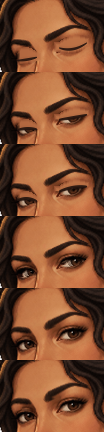
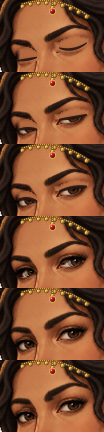
Farah's wedding: gold for a desert court bride
Her crimson coat is worked with small gold flowers on a lattice (only where
there's cloth, clear of the trim), and she wears gold: a circlet of coins along
her hairline, fitted to where her forehead meets her hair, with a garnet drop on
her brow; gold and garnet earrings; and a necklace of coins at her throat with a
larger one at its centre. All lit from the upper left like the painting, and
her blinks and glances remade from the dressed paintings.

Claude-Session: https://claude.ai/code/session_01XvgEay1pJez8ktwbJ7pgPF

diff --git a/tools/portrait_wedding.py b/tools/portrait_wedding.py
@@ -7,7 +7,9 @@ stays), and wedding details are painted into the hair, lit from the upper left l
 paintings.
 
   Edda   honey-ivory wool dress, its stitching left gold; a wreath of white and blush flowers
-  Farah  crimson coat over her cream linen; sprigs of jasmine in her curls
+  Farah  crimson coat over her cream linen, flecked with gold; a circlet of gold coins at
+         her hairline with a red drop on her brow, gold and garnet earrings, a coin
+         necklace at her throat, and jasmine in her curls
   Kaede  white over-robe, red collar; a pin of red and white blossoms by her knot
 
 Writes assets/portraits/<who>_wedding_<expression>.png for the expressions the wedding
@@ -151,6 +153,84 @@ def leaf(out, x0, y0, x1, y1, width, colour):
     out[..., :3] = out[..., :3] * (1 - k) + lit * k
 
 
+GOLD_LIGHT = (252, 226, 150)
+GOLD_MID = (214, 166, 72)
+GOLD_DARK = (120, 80, 28)
+GARNET = (170, 22, 38)
+
+
+def coin(out, cx, cy, r):
+    """A gold coin or bead: a dark rim, lit from the upper left, a glint."""
+    h, w = out.shape[:2]
+    rim, _dx, _dy = disc((h, w), cx, cy, r + 0.7)
+    paint(out, rim, GOLD_DARK)
+    body, dx, dy = disc((h, w), cx, cy, r)
+    lit = 1.0 + 0.45 * np.clip((-dx - dy) / (1.4 * max(r, 1.0)), -1, 1)
+    colour = np.clip(np.array(GOLD_MID, float)[None, None, :] * lit[..., None], 0, 255)
+    k = body[..., None]
+    out[..., :3] = out[..., :3] * (1 - k) + colour * k
+    out[..., 3] = np.maximum(out[..., 3], body * 255)
+    if r >= 1.8:
+        glint, _dx, _dy = disc((h, w), cx - r * 0.35, cy - r * 0.35, max(0.6, r * 0.28), soft=0.6)
+        paint(out, glint * 0.9, GOLD_LIGHT)
+
+
+def gem(out, cx, cy, r, colour=GARNET):
+    """A drop of red stone in a gold setting, lit from the upper left."""
+    h, w = out.shape[:2]
+    setting, _dx, _dy = disc((h, w), cx, cy, r + 1.0)
+    paint(out, setting, GOLD_MID)
+    body, dx, dy = disc((h, w), cx, cy, r)
+    lit = 1.0 + 0.5 * np.clip((-dx - dy) / (1.4 * r), -1, 1)
+    c = np.clip(np.array(colour, float)[None, None, :] * lit[..., None], 0, 255)
+    k = body[..., None]
+    out[..., :3] = out[..., :3] * (1 - k) + c * k
+    glint, _dx, _dy = disc((h, w), cx - r * 0.4, cy - r * 0.4, max(0.6, r * 0.3), soft=0.6)
+    paint(out, glint * 0.85, (255, 220, 220))
+
+
+def chain(out, points, step=1.6):
+    """Fine gold links along `points`."""
+    for (x0, y0), (x1, y1) in zip(points, points[1:]):
+        n = max(1, int(np.hypot(x1 - x0, y1 - y0) / step))
+        for i in range(n):
+            t = i / n
+            coin(out, x0 + (x1 - x0) * t, y0 + (y1 - y0) * t, 0.55)
+
+
+def hairline(a, x0, x1, start):
+    """Where her forehead meets her hair, as a smooth curve over x0..x1: from inside the
+    forehead (row `start`) upward, while the skin lasts, then fitted so a stray curl
+    doesn't bend it."""
+    tone = np.median(a[start - 2:start + 3, (x0 + x1) // 2 - 6:(x0 + x1) // 2 + 6, :3].reshape(-1, 3), axis=0)
+    xs, ys = [], []
+    for x in range(x0, x1 + 1):
+        y = start
+        while y > 40 and np.abs(a[y - 1, x, :3] - tone).max() < 55:
+            y -= 1
+        xs.append(x)
+        ys.append(y)
+    fit = np.polyfit(xs, ys, 2)
+    return {x: float(np.polyval(fit, x)) for x in range(x0, x1 + 1)}
+
+
+def brocade(out, who):
+    """Small gold flowers worked into the coat on a diamond lattice, only on the cloth."""
+    h, w = out.shape[:2]
+    rgb = out[..., :3]
+    mx = rgb.max(axis=-1)
+    mn = rgb.min(axis=-1)
+    red = (rgb[..., 0] >= rgb[..., 1] * 1.8) & (rgb[..., 0] > 70) & ((mx - mn) / np.maximum(mx, 1) > 0.55)
+    yy = np.mgrid[0:h, 0:w][0]
+    coat = red & (yy >= NECK[who] + 30) & (out[..., 3] > 250)
+    for row, y in enumerate(range(NECK[who] + 38, h - 6, 17)):
+        for x in range(4 + (8 if row % 2 else 0), w - 4, 16):
+            if coat[y - 3:y + 4, x - 3:x + 4].all():
+                for dx, dy in ((0, -2), (2, 0), (0, 2), (-2, 0)):
+                    coin(out, x + dx, y + dy, 0.75)
+                coin(out, x, y, 0.9)
+
+
 def top_of_head(a, x):
     ys = np.nonzero(a[:, x, 3] > 128)[0]
     return int(ys[0]) if len(ys) else None
@@ -185,6 +265,34 @@ def adorn(out, who):
         for i, (x, y) in enumerate(spots):
             flower(out, x, y, 6.6 if i % 2 == 0 else 5.4, WHITE if i % 2 == 0 else BLUSH, CENTRE, turn=i * 0.7)
     elif who == "farid":
+        brocade(out, who)
+        line = hairline(out, 128, 196, 116)
+        # A circlet of small gold coins along her hairline, a garnet drop on her brow.
+        pts = [(x, line[x] - 1.0) for x in sorted(line) if x % 2 == 0]
+        chain(out, pts)
+        for x, y in pts[::4]:
+            coin(out, x, y + 2.2, 1.6)
+        mid = 158
+        top = line.get(mid, 100) - 1.5
+        chain(out, [(mid, top), (mid, top + 6)])
+        coin(out, mid, top + 6.5, 1.4)
+        gem(out, mid, top + 10.5, 2.6)
+        # Earrings: a gold stud at the lobe, a chain, a garnet, a little bell of gold.
+        chain(out, [(236, 178), (236, 190)])
+        coin(out, 236, 177.5, 1.8)
+        gem(out, 236, 192, 2.4)
+        coin(out, 236, 198.5, 2.2)
+        for dx in (-2.4, 0, 2.4):
+            coin(out, 236 + dx, 202.5, 0.9)
+        # A necklace of coins at her throat, a larger one at its centre.
+        neck = [(158, 262), (166, 270), (174, 276), (183, 280), (192, 281), (201, 278), (209, 272), (215, 266)]
+        chain(out, neck)
+        for x, y in neck[1:-1]:
+            chain(out, [(x, y), (x, y + 3)])
+            coin(out, x, y + 5, 2.0)
+        chain(out, [(188, 281), (188, 287)])
+        coin(out, 188, 291, 3.4)
+        gem(out, 188, 291, 1.4)
         # Jasmine tucked above her ear: a sprig of small white stars, buds and leaves.
         leaf(out, 222, 104, 236, 88, 2.2, GREEN)
         leaf(out, 228, 100, 246, 104, 2.0, GREEN)

diff --git a/assets/story-art-manifest.md b/assets/story-art-manifest.md
@@ -90,7 +90,9 @@ Use case: stylized-concept. Create a wide landscape 3:2 pixel-art background ill
   `tools/portrait_wedding.py`. Each garment is recoloured through a ramp by its own light
   and shade, so the painted folds, seams and texture stay; the flowers are painted on in
   code, lit from the upper left. Edda: honey-ivory dress, a wreath of white and blush
-  flowers. Farah: crimson coat, jasmine above her ear. Kaede: white over-robe with a red
+  flowers. Farah: crimson coat worked with small gold flowers, a circlet of gold coins along her
+  hairline with a garnet drop on her brow, gold and garnet earrings, a coin necklace, and
+  jasmine above her ear. Kaede: white over-robe with a red
   collar, a pin of red and white blossoms by her knot. Run it again (then
   `tools/portrait_faces.py`) after a portrait is replaced.
 

diff --git a/docs/game-feel-audit.md b/docs/game-feel-audit.md
@@ -380,7 +380,8 @@ Seen on a screen in all three talks, at the height of each move; checked by
 
 The three were painted in everyday clothes only. `tools/portrait_wedding.py` dresses them
 from those paintings for the wedding: Edda in a honey-ivory dress with a wreath of white
-and blush flowers, Farah in a crimson coat with jasmine above her ear, Kaede in a white
+and blush flowers, Farah in a crimson coat worked with gold, a coin circlet with a garnet on her brow, gold
+earrings, a coin necklace and jasmine above her ear, Kaede in a white
 over-robe with a red collar and a pin of red and white blossoms. Each garment is
 recoloured through a ramp by its own light and shade, so every fold and seam the painter
 put there stays; the flowers are painted on in code, clear of the strip a blink replaces.
